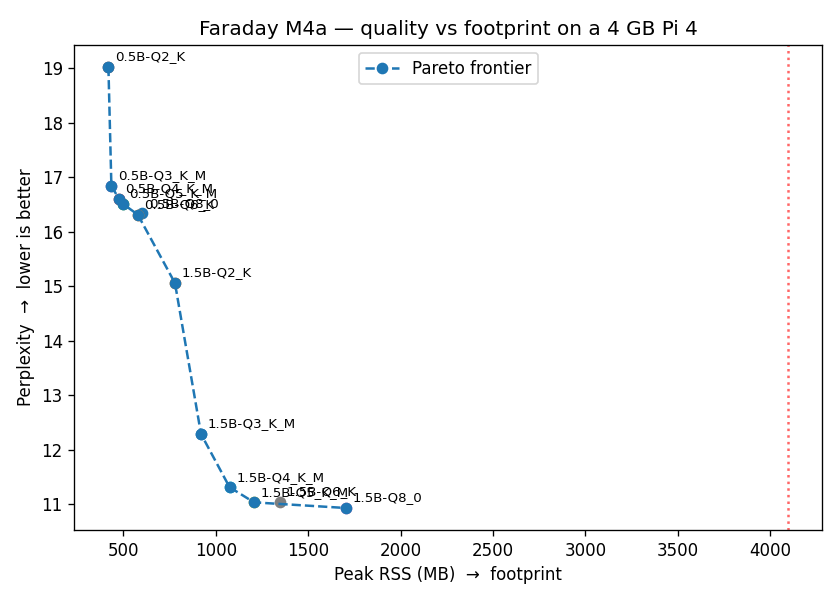
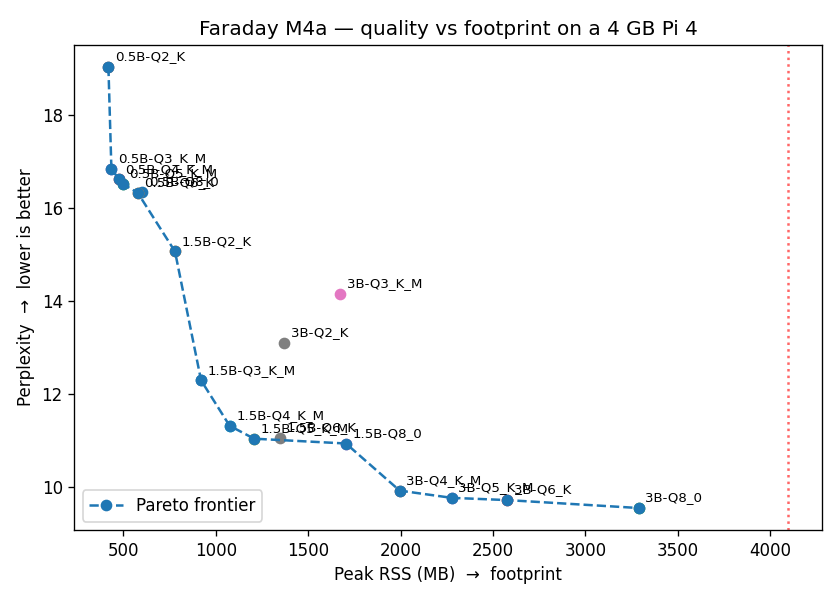
docs(m4a): final 18-cell clean-run results + findings — M4a complete
Clean re-run on the verified PSU (0x0 across ~15 h) replaces the throttled
core-run artifacts and completes the 3B rows. Findings rewritten as final:
knee = 1.5B Q4_K_M; decode bandwidth-bound at ~3.8 GB/s effective (measured
across all 18 cells); prefill kernel-bound (Q8_0/Q4_K_M fastest); 3B fits in
RAM but fails interactivity and is broken below Q4_K_M; core-run quality
reproduced exactly, speeds within ~2%. As-built + READMEs signed off.

diff --git a/results/sweep/findings.md b/results/sweep/findings.md
@@ -1,9 +1,9 @@
 # Faraday M4a — Quantization Sweep Findings
 
-**Status:** Core run complete — **12 cells (Qwen2.5 0.5B + 1.5B × 6 quants)**. The 3B
-row and clean speed numbers are deferred to a **re-run** (the run hit intermittent
-**under-voltage throttling** on a marginal PSU — see §5). **Quality and footprint are
-final** (power-immune); **speed is preliminary**.
+**Status:** ✅ **COMPLETE — all 18 cells** (Qwen2.5 {0.5B, 1.5B, 3B} × {Q8_0, Q6_K, Q5_K_M,
+Q4_K_M, Q3_K_M, Q2_K}), measured end-to-end on **clean power** (official 5.1 V/3 A PSU,
+`get_throttled=0x0` for the entire ~15 h run, 2026-06-10). Quality, footprint, **and speed**
+are all final. The earlier throttled 12-cell core run and its resolution: §5; run record: §6.
 
 **Deliverables:** [`frontier.png`](./frontier.png) · [`leaderboard.md`](./leaderboard.md) ·
 [`sweep.csv`](./sweep.csv) (raw rows).
@@ -12,106 +12,162 @@ final** (power-immune); **speed is preliminary**.
 
 ## 1. Headline & recommendation
 
-On a 4 GB Pi 4, the quality-vs-footprint frontier says: **run Qwen2.5-1.5B at Q4_K_M (or
-Q5_K_M).** It sits at the **knee** — perplexity ~11.3, peak RAM ~1.07 GB — capturing nearly
-all of the 1.5B model's quality at a comfortable footprint. Drop to 0.5B only if you need
-minimum RAM / maximum speed and can accept a large quality hit (~16 vs ~11 perplexity). The
-3B model fits but is impractically slow (§4).
+On a 4 GB Pi 4, the quality-vs-footprint frontier says: **run Qwen2.5-1.5B at Q4_K_M.**
+It sits at the **knee** — nearly all of the 1.5B model's quality at an interactive speed
+and a comfortable footprint. The full matrix adds a real option above it and a hard floor
+below it:
 
-**The frontier (perplexity vs peak RSS):** a textbook L-shape — a steep quality cliff across
-the 0.5B cluster, a big drop to the 1.5B cluster, then the curve flattens (extra RAM buys
-almost no quality past Q4/Q5 of 1.5B).
+| Pick | Cell | Perplexity | Peak RSS | Decode | When |
+|---|---|---|---|---|---|
+| **The knee (appliance default)** | **1.5B Q4_K_M** | 11.32 | 1.07 GB | 3.86 tok/s | Best quality-per-byte that is still interactive |
+| Quality ceiling | 3B Q4_K_M | 9.92 | 2.0 GB | 1.92 tok/s | Batch / non-interactive jobs where 2× the wait is fine |
+| Speed/RAM floor | 0.5B Q4_K_M | 16.61 | 475 MB | 9.47 tok/s | Latency demos; accept a large quality drop |
 
-## 2. Quality vs footprint (FINAL — unaffected by throttling)
+(1.5B **Q5_K_M** is the co-knee: 11.04 ppl at 1.21 GB — slightly better quality for −18%
+decode. Either is defensible; the product ships Q4_K_M.)
 
-**Size dominates quality.** Tripling parameters 0.5B → 1.5B drops perplexity from ~16–19 to
-~11 — a far bigger quality lever than any quant choice within a size.
+**The frontier (perplexity vs peak RSS)** is the textbook L-shape with a long upper arm:
+a steep cliff across the 0.5B cluster, the big drop to 1.5B, then a slow, expensive crawl
+toward 3B-Q8_0 (9.55 ppl at 3.3 GB — the model alone nearly fills the board). 14 of 18
+cells sit on the frontier; the four dominated cells are called out in §2.
 
-| | 0.5B perplexity | 1.5B perplexity |
-|---|---|---|
-| Q8_0 | 16.34 | 10.93 |
-| Q6_K | 16.32 | 11.05 |
-| Q5_K_M | 16.52 | 11.04 |
-| Q4_K_M | 16.61 | 11.32 |
-| Q3_K_M | 16.84 | 12.29 |
-| Q2_K | **19.03** | **15.06** |
+## 2. Quality vs footprint (FINAL)
 
-**The quant cliff is real, and bigger models tolerate compression better.** Quality drifts
-only gently from Q8 down to Q3, then falls off a cliff at **Q2_K**. For 0.5B the cliff is the
-single Q2 step (16.84 → 19.03). For 1.5B the gentle zone extends through Q4; Q3 starts to
-slip (12.29) and Q2 falls hard (15.06). More parameters = more redundancy to absorb the
-rounding noise.
+**Size dominates quality — with diminishing returns.** At Q4_K_M: 0.5B → 1.5B → 3B is
+16.61 → 11.32 → 9.92. The first 3× in parameters buys −5.3 perplexity; the next 2× buys
+only −1.4 (and costs half the decode speed, §3).
 
-**Two cells are dominated** (a strictly better option exists — smaller *and* lower
+| | 0.5B | 1.5B | 3B |
+|---|---|---|---|
+| Q8_0 | 16.34 | 10.93 | 9.55 |
+| Q6_K | 16.32 | 11.05 | 9.72 |
+| Q5_K_M | 16.52 | 11.04 | 9.77 |
+| Q4_K_M | 16.61 | 11.32 | 9.92 |
+| Q3_K_M | 16.84 | 12.29 | **14.15** |
+| Q2_K | **19.03** | **15.06** | **13.10** |
+
+**The low-bit cliff arrives *earlier* as the model grows** — the opposite of what the
+12-cell core run extrapolated ("bigger models tolerate compression better"). Relative
+degradation Q8_0 → Q3_K_M: 0.5B **+3.1%**, 1.5B **+12.4%**, 3B **+48.2%**. The 3B model is
+flatly broken below Q4_K_M: its Q3_K_M (14.15 ± 0.58) and Q2_K (13.10 ± 0.53) are *worse
+than 1.5B-Q4_K_M* while using more RAM. The Q3-worse-than-Q2 inversion is within ~2σ —
+read it as "Q3_K_M ≈ Q2_K, both off the cliff," not as a confident ordering. Whether the
+early cliff is intrinsic to the 3B weights or an artifact of these particular imatrix
+calibrations is unresolved; the leaderboard reports what was measured, not what was expected.
+
+**Four cells are dominated** (a strictly better cell exists — smaller *and* lower
 perplexity), so never run them:
-- **0.5B-Q8_0** (602 MB, 16.34) — beaten by **0.5B-Q6_K** (578 MB, 16.32). Q8's extra
-  precision bought *nothing* here.
+- **0.5B-Q8_0** (602 MB, 16.34) — beaten by **0.5B-Q6_K** (578 MB, 16.32).
 - **1.5B-Q6_K** (1348 MB, 11.05) — beaten by **1.5B-Q5_K_M** (1207 MB, 11.04).
+- **3B-Q3_K_M** (1671 MB, 14.15) and **3B-Q2_K** (1436 MB, 13.10) — both beaten by
+  **1.5B-Q3_K_M** (920 MB, 12.29). A broken big model loses to a healthy small one.
 
-**Footprint scales with quant**, all comfortably within 4 GB: 0.5B 419–602 MB, 1.5B
-779–1704 MB peak RSS.
+**Reproducibility:** the re-run reproduced all 12 core-run perplexities **exactly** (fixed
+GGUF + corpus + thread count → deterministic forward passes) and peak RSS within noise —
+empirical confirmation that quality/footprint were power-immune, as claimed when the core
+run was published. Footprint: peak RSS ≈ GGUF size + 100–160 MB (KV cache + compute
+buffers), so the model file size is an excellent RAM predictor.
 
-## 3. Speed (PRELIMINARY — see throttling caveat, §5)
+## 3. Speed (FINAL — clean power)
 
-**Decode is memory-bandwidth-bound, exactly as theory predicts.** Within a size, more
-compression → fewer bytes streamed per token → *faster* decode (0.5B: 7.24 → 10.61 tok/s as
-Q8 → Q2; 1.5B: 2.33 → 4.74). Across sizes, 1.5B (~3× the weights of 0.5B) decodes ~3× slower
-— the `decode ∝ 1/model_bytes` relationship, measured.
+**Decode is memory-bandwidth-bound, and now we've measured the constant.** Across **all 18
+cells**, `decode tok/s × model bytes` lands in a narrow band:
 
-**Harness cross-validation:** 1.5B-Q4_K_M measured **7.53 prefill / 3.84 decode** here vs the
-independent **M0 hand-measured baseline of 7.71 / 3.87** — agreement within ~2%, strong
-evidence both measurements are sound.
+- ≈ **3.8–3.9 GB/s** at Q8_0/Q6_K (simple dequant),
+- drifting down to ≈ **3.3 GB/s** at Q3/Q2 (super-block bit-unpacking starts to eat the
+  bandwidth win).
 
-⚠️ The prefill column is noisy (e.g. 1.5B Q8 7.67 > Q6 5.68) because of *intermittent* clock
-capping from under-voltage. Absolute speeds for 1.5B+ are **conservative**; relative trends
-hold. Clean numbers await the re-run.
+That band *is* the Pi 4's effective LPDDR4 read bandwidth, measured 18 independent ways.
+Consequences, verified: within a size, more compression → proportionally faster decode
+(0.5B: 7.25 → 10.66 tok/s from Q8 to Q2; 1.5B: 2.33 → 4.84; 3B: 1.15 → 2.60); across
+sizes at Q4_K_M, 2.48× the bytes → 2.45× slower (0.5B→1.5B) and 1.96× the bytes → 2.01×
+slower (1.5B→3B). To first order on this board: **`decode ≈ 3.8 GB/s ÷ model_bytes`** —
+you can now size any GGUF for the Pi 4 without running it.
 
-## 4. The 3B observation: a *speed* wall, not a memory wall (qualitative)
+| decode tok/s | 0.5B | 1.5B | 3B |
+|---|---|---|---|
+| Q8_0 | 7.25 | 2.33 | 1.15 |
+| Q6_K | 7.63 | 3.02 | 1.54 |
+| Q5_K_M | 9.05 | 3.15 | 1.72 |
+| Q4_K_M | 9.47 | 3.86 | 1.92 |
+| Q3_K_M | 10.47 | 4.06 | 2.13 |
+| Q2_K | 10.66 | 4.84 | 2.60 |
 
-We expected 3B to OOM against the 4 GB ceiling. It doesn't. Live diagnosis of `3B Q8_0`
-(**3.06 GB** GGUF) showed it **fits and runs**: the mmap'd weights sat in the page cache
-(`free`: used 409 MiB, buff/cache 3.4 GiB — the M0 mmap lesson live), swap untouched, all
-four cores compute-bound at full clock. The real limit is **speed**: a single perplexity
-pass on 3B runs ~1 h. So 3B is technically usable on a 4 GB Pi but **impractically slow** —
-the wall is throughput, not capacity. Full 3B characterization is deferred to the re-run.
+**Prefill is compute-bound and *kernel*-bound — it does not follow byte count.** In every
+size row, **Q8_0 and Q4_K_M are the two fastest prefill quants** (0.5B: 27.9/21.8 tok/s;
+1.5B: 7.65/7.52; 3B: 3.54/3.58) while Q5_K_M/Q6_K are the slowest (their bit-packed
+super-blocks cost the most ALU work to unpack). The core run showed the same pattern and
+we wrote it off as throttle noise; the clean run **reproduced it almost digit-for-digit**
+(1.5B Q8_0: 7.67→7.65; Q6_K: 5.68→5.69) — it's real. Lesson: quantization trades
+*decode* bandwidth against *prefill* dequant compute, and Q4_K_M's heavily-optimized NEON
+path is why it wins twice.
 
-## 5. Measurement-hygiene incident: under-voltage throttling
+**Cross-validation versus M0:** the harness's 1.5B-Q4_K_M row reads **7.52 prefill / 3.86
+decode** vs the hand-measured M0 baseline **7.71 / 3.87** — agreement within 2.5% / 0.3%,
+on independent tooling.
 
-Partway through the run the board began **under-volting under sustained load**:
-- `vcgencmd get_throttled` → `0x50000` (under-voltage **and** throttling *have occurred*).
-- `dmesg` logged real dips: `Undervoltage detected!` at 21:40, 21:57, 23:22 (each recovering
-  in seconds).
-- Temp was 55.5 °C — so this is **power, not heat**. The PSU sags below the ~4.63 V trip
-  point under load, the firmware caps the clock, then it recovers.
+**Postscript on the throttled core run:** its speed numbers turned out accurate to ≤~2%
+(the under-voltage dips lasted seconds and llama-bench's averaging absorbed them). Flagging
+them "preliminary" was still right — that accuracy was unknowable until measured on power
+that held `0x0`.
 
-**Impact:** speed columns for the heavier (1.5B+) cells are under-reported. **Perplexity and
-peak RSS are unaffected** (they don't depend on clock speed) — which is why the frontier and
-leaderboard are final.
+## 4. The 3B verdict: fits in RAM, fails at interactivity
 
-**Note:** a Pi 4 cannot report its actual 5 V input voltage in software (only the
-comparator flag + dmesg events); measuring the real voltage needs an inline USB-C power
-meter. Fix before the re-run: the **official 5.1 V/3 A PSU + a good short cable**.
+The core run's qualitative observation is now quantified:
 
-## 6. Re-run plan (for clean speed + the 3B row)
+- **It fits.** Every 3B quant ran to completion; peak RSS 1.44–3.29 GB, swap untouched.
+  The 4 GB ceiling never triggered — `status=oom` went unused across the whole matrix.
+- **It's slow in both phases.** Decode 1.15–2.60 tok/s; prefill 2.7–3.6 tok/s. At the only
+  healthy quant (Q4_K_M): **1.92 tok/s ≈ 86 words/min** — well below reading speed, and
+  RAG prompts (~1k tokens of context) make the prefill phase brutal too.
+- **Its low-bit escape hatch is broken** (§2): below Q4_K_M, 3B loses to 1.5B on *both*
+  axes. You cannot buy 3B's quality cheaply.
+- **RAM-wise it would coexist** with the appliance stack (≈2.4 GB total resident with
+  embed + app) — the deal-breaker is throughput, not capacity.
 
-After the PSU fix, start **fresh** (the resumable CSV would otherwise skip the contaminated
-rows):
-```bash
-ssh [email redacted]
-rm ~/faraday/results/sweep/sweep.csv; rm -f ~/faraday/results/sweep/raw/*
-cd ~/faraday && bash scripts/70_quant_sweep.sh   # full 18 cells, clean clock
-```
-Expect: identical quality/footprint, *higher* (un-throttled) speeds, and the six 3B rows
-completing the matrix (slowly — budget the full overnight + most of a day for the 3B
-perplexity passes).
+**Verdict:** 3B-Q4_K_M is real frontier (−1.4 ppl vs the knee) for **batch/offline** use;
+the interactive appliance stays on **1.5B Q4_K_M**. "Can a 4 GB Pi run a 3B model?" —
+yes; "should it serve one?" — no.
+
+## 5. Measurement-hygiene incident: under-voltage throttling (resolved)
+
+During the original core run the board **under-volted under sustained load**:
+`vcgencmd get_throttled` → `0x50000` (under-voltage *and* throttling have occurred),
+`dmesg` showed repeated `Undervoltage detected!` dips, each recovering in seconds, at
+55 °C — **power, not heat**. The marginal PSU sagged below the ~4.63 V trip point; the
+firmware capped the clock intermittently. Quality/footprint were unaffected (clock-
+independent); speed was flagged preliminary; the 3B rows were deferred.
+
+**Resolution:** official 5.1 V/3 A PSU, verified by a stress test before relaunch (held
+`0x0`, ±0.00 V variance), then the full 18-cell re-run held **`0x0` across ~15 h of
+sustained load**. The re-run reproduced quality exactly and core-run speeds within ~2%
+(§3 postscript) and added the six 3B cells. A Pi 4 can't report its input voltage in
+software — only the comparator flag — so the rule stands: **check `get_throttled` before
+trusting any benchmark, and re-measure on power you trust before calling numbers final.**
+
+## 6. Run record (the clean 18-cell run)
+
+- **2026-06-10**, fresh start (cleared `sweep.csv` + `raw/` so the resumable runner
+  wouldn't skip contaminated rows), via `scripts/70_quant_sweep.sh` detached over SSH.
+- First cell artifact 04:39, last 19:31 → **~15 h wall-clock**: 0.5B ≈ 1.4 h, 1.5B ≈ 4.3 h,
+  **3B ≈ 9.2 h (61% of the run** — each 3B perplexity pass alone is 55–69 min, matching
+  the "~1 h" estimate that justified deferring 3B from the throttled run).
+- ≈ **21.9 GB of GGUFs** downloaded to the scratch dir over the run, one model at a time,
+  each deleted after its cell (SD-card- and disk-friendly by design).
+- Throttle state `0x0` at launch, at every mid-run peek, and at completion.
 
 ## 7. Process notes (engineering candor)
 
-- **`pkill -f` self-match has a second form.** The bracket trick (`[f]oo`) stops the pattern
-  matching *itself*, but a **literal unbracketed copy of the pattern elsewhere in the same
-  command** (here, in a later `pgrep` verify clause) still matches and killed the SSH
-  session. Lesson: when killing by pattern over SSH, bracket *every* occurrence, or kill by
-  resolved PID (`kill $(pgrep -f '[f]oo')`).
+- **`pkill -f` self-match has a second form.** The bracket trick (`[f]oo`) stops the
+  pattern matching *itself*, but a **literal unbracketed copy of the pattern elsewhere in
+  the same command** (here, in a later `pgrep` verify clause) still matches — and killed
+  the SSH session. Lesson: bracket *every* occurrence, or kill by resolved PID
+  (`kill $(pgrep -f '[f]oo')`).
 - **Latent harness gap:** `run_cell` has no subprocess timeout. It didn't bite (3B fit and
   ran), but a model that genuinely thrashed instead of cleanly OOM-ing would hang the sweep
-  indefinitely. A per-cell timeout (→ `status=timeout`) is a worthwhile hardening item.
+  indefinitely. A per-cell timeout (→ `status=timeout`) remains a worthwhile hardening item.
+- **Re-measuring known cells is a free harness regression test.** Re-running the 12 core
+  cells cost ~6 of the 15 h but reproduced perplexity *exactly* and speed within ~2% — that
+  agreement is itself evidence the harness is sound, in the same spirit as the M0
+  cross-validation. It also promoted one "noise" artifact (Q8_0's prefill advantage, §3)
+  into a reproduced, real effect.

diff --git a/results/sweep/leaderboard.md b/results/sweep/leaderboard.md
@@ -4,15 +4,21 @@ Sorted by perplexity (lower = better). ★ = on the quality/footprint Pareto fro
 
 | Rank | Cell | Perplexity | Peak RSS (MB) | ★ |
 |---|---|---|---|---|
-| 1 | 1.5B-Q8_0 | 10.9337 | 1704 | ★ |
-| 2 | 1.5B-Q5_K_M | 11.0374 | 1207 | ★ |
-| 3 | 1.5B-Q6_K | 11.0523 | 1348 |  |
-| 4 | 1.5B-Q4_K_M | 11.3155 | 1074 | ★ |
-| 5 | 1.5B-Q3_K_M | 12.2908 | 920 | ★ |
-| 6 | 1.5B-Q2_K | 15.0613 | 779 | ★ |
-| 7 | 0.5B-Q6_K | 16.3176 | 578 | ★ |
-| 8 | 0.5B-Q8_0 | 16.3398 | 602 |  |
-| 9 | 0.5B-Q5_K_M | 16.5169 | 496 | ★ |
-| 10 | 0.5B-Q4_K_M | 16.6114 | 475 | ★ |
-| 11 | 0.5B-Q3_K_M | 16.8431 | 435 | ★ |
-| 12 | 0.5B-Q2_K | 19.0298 | 419 | ★ |
+| 1 | 3B-Q8_0 | 9.5473 | 3288 | ★ |
+| 2 | 3B-Q6_K | 9.7178 | 2575 | ★ |
+| 3 | 3B-Q5_K_M | 9.7658 | 2276 | ★ |
+| 4 | 3B-Q4_K_M | 9.9211 | 1995 | ★ |
+| 5 | 1.5B-Q8_0 | 10.9337 | 1704 | ★ |
+| 6 | 1.5B-Q5_K_M | 11.0374 | 1207 | ★ |
+| 7 | 1.5B-Q6_K | 11.0523 | 1348 |  |
+| 8 | 1.5B-Q4_K_M | 11.3155 | 1074 | ★ |
+| 9 | 1.5B-Q3_K_M | 12.2908 | 920 | ★ |
+| 10 | 3B-Q2_K | 13.1034 | 1370 |  |
+| 11 | 3B-Q3_K_M | 14.1451 | 1671 |  |
+| 12 | 1.5B-Q2_K | 15.0613 | 779 | ★ |
+| 13 | 0.5B-Q6_K | 16.3176 | 578 | ★ |
+| 14 | 0.5B-Q8_0 | 16.3398 | 602 |  |
+| 15 | 0.5B-Q5_K_M | 16.5169 | 496 | ★ |
+| 16 | 0.5B-Q4_K_M | 16.6114 | 475 | ★ |
+| 17 | 0.5B-Q3_K_M | 16.8431 | 435 | ★ |
+| 18 | 0.5B-Q2_K | 19.0298 | 418 | ★ |

diff --git a/docs/superpowers/plans/2026-06-09-faraday-m4a-as-built.md b/docs/superpowers/plans/2026-06-09-faraday-m4a-as-built.md
@@ -1,8 +1,9 @@
 # Faraday — M4a As-Built & Findings (harness)
 
-**Status:** ✅ Harness complete — merged to `main` (`51a1a67`) and on GitHub. ⏳ The 18-cell
-sweep is **unrun**; `results/sweep/{sweep.csv,frontier.png,leaderboard.md,findings.md}` and
-the "M4a complete" sign-off follow the overnight run.
+**Status:** ✅ **M4a complete & signed off (2026-06-10).** Harness merged to `main`
+(`51a1a67`); the sweep ran twice — a 12-cell core run on a marginal PSU (`653eff6`) and,
+after the PSU fix, the final clean **18-cell** run — final artifacts + findings in
+[`results/sweep/`](../../../results/sweep/findings.md).
 **Plan:** [2026-06-09-faraday-m4a-quant-sweep.md](./2026-06-09-faraday-m4a-quant-sweep.md)
 **Spec:** [2026-06-09-faraday-m4a-quant-sweep-design.md](../specs/2026-06-09-faraday-m4a-quant-sweep-design.md)
 
@@ -72,7 +73,16 @@ The plan was authored fully off-Pi; only the smoke + (pending) sweep need hardwa
 plan-vs-reality gap (finding #1) was assumed-present-but-absent — caught at the prereq
 gate, the cheapest possible place.
 
-**Next:** run `scripts/70_quant_sweep.sh` (overnight, resumable) → commit the frontier +
-`findings.md` (the knee, quant cliffs, the 4 GB wall, what to actually run on a 4 GB Pi) →
-sign off M4a. Then M4c (optimization waterfall: governor/overclock/KV-cache/flash-attn/
-speculative; the TTFT-vs-context + prefill-rate leads) and M4b (RAG evals).
+## Sweep run record (added at sign-off, 2026-06-10)
+
+Two runs. The **core run** (12 cells, 0.5B+1.5B) hit intermittent under-voltage throttling
+on a marginal PSU — quality/footprint published as final (clock-independent), speed flagged
+preliminary, 3B deferred. After a verified PSU swap, the **clean 18-cell run** held
+`get_throttled=0x0` across ~15 h (3B = 61% of wall-clock), **reproduced all 12 core
+perplexities exactly and core speeds within ~2%**, and completed the 3B rows. Headlines:
+knee = **1.5B Q4_K_M**; decode bandwidth-bound at ≈3.8 GB/s effective (measured 18 ways);
+prefill kernel-bound (Q8_0/Q4_K_M fastest); 3B fits in RAM but fails interactivity, and is
+broken below Q4_K_M. Full story: [`results/sweep/findings.md`](../../../results/sweep/findings.md).
+
+**Next:** M4b batch-verify + data run (`m4b-eval-data-run` branch), then M4c (the
+optimization waterfall — where the TTFT-vs-context + prefill-rate leads now live), then M5.

diff --git a/results/sweep/README.md b/results/sweep/README.md
@@ -23,5 +23,6 @@ bash scripts/70_quant_sweep.sh
 # Then commit the curated outputs from the dev box.
 ```
 
-`status` ∈ {`ok`, `oom`, `download_failed`, `error`}. A non-fitting 3B cell is
-`oom` — that's a charted result (the 4 GB ceiling), not a bug.
+`status` ∈ {`ok`, `oom`, `download_failed`, `error`}. A non-fitting cell would be
+`oom` — a charted result (the 4 GB ceiling), not a bug. In the final 2026-06-10 run it
+went unused: **18/18 `ok`** — every cell fits; the 3B wall is speed, not memory.

diff --git a/README.md b/README.md
@@ -4,7 +4,7 @@
 
 Faraday runs a small LLM and a vector-search engine *entirely* on a 4 GB Raspberry Pi 4. Point it at your PDFs/notes and it answers questions about them with source citations — and nothing ever leaves the device. It's both a working privacy-first appliance and an inference-engineering study of how much GenAI capability fits on ~$60 of constrained edge hardware.
 
-> **Status:** 🟢 **M0–M3 complete** — a local RAG appliance answering cited questions fully offline (CLI + token-streaming web chat), with a live Prometheus/Grafana dashboard (69 tests green, proven on hardware).  🚧 **M4 in progress** — the inference lab: the [quant-sweep frontier](results/sweep/findings.md) is measured (verdict: run **1.5B Q4_K_M** on a 4 GB Pi), the RAG-eval engine is merged, and the optimization study is designed.
+> **Status:** 🟢 **M0–M3 complete** — a local RAG appliance answering cited questions fully offline (CLI + token-streaming web chat), with a live Prometheus/Grafana dashboard (69 tests green, proven on hardware).  🚧 **M4 in progress** — the inference lab: **M4a ✅** the [18-cell quant-sweep frontier](results/sweep/findings.md) is final (verdict: run **1.5B Q4_K_M**; decode is bandwidth-bound at ≈3.8 GB/s; 3B fits but fails interactivity), the RAG-eval engine is merged, and the optimization study is designed.
 
 ## Why it's interesting
 
@@ -102,5 +102,5 @@ Code is authored on a Windows dev machine and deployed to the Pi with `git push 
 - [Design spec](docs/superpowers/specs/2026-06-08-faraday-edge-rag-appliance-design.md) — full architecture & methodology
 - Milestone specs: [M2 serving](docs/superpowers/specs/2026-06-09-faraday-m2-serving-design.md) · [M3 observability](docs/superpowers/specs/2026-06-09-faraday-m3-observability-design.md) · [M4a quant sweep](docs/superpowers/specs/2026-06-09-faraday-m4a-quant-sweep-design.md) · [M4b RAG evals](docs/superpowers/specs/2026-06-10-faraday-m4b-rag-evals-design.md) · [M4c optimization](docs/superpowers/specs/2026-06-10-faraday-m4c-optimization-design.md)
 - Implementation plans: [M0–M1](docs/superpowers/plans/2026-06-08-faraday-m0-m1-rag-core.md) · [M2](docs/superpowers/plans/2026-06-09-faraday-m2-serving.md) · [M3](docs/superpowers/plans/2026-06-09-faraday-m3-observability.md) · [M4a](docs/superpowers/plans/2026-06-09-faraday-m4a-quant-sweep.md) · [M4b engine](docs/superpowers/plans/2026-06-10-faraday-m4b-rag-eval-engine.md) · [M4b data+run](docs/superpowers/plans/2026-06-10-faraday-m4b-rag-eval-data-and-run.md) · [M4c](docs/superpowers/plans/2026-06-10-faraday-m4c-optimization.md)
-- First results: [M4a sweep findings](results/sweep/findings.md) — the quality-vs-footprint frontier + Pi-4 leaderboard
+- First results: [M4a sweep findings](results/sweep/findings.md) — the quality-vs-footprint frontier + [Pi-4 leaderboard](results/sweep/leaderboard.md) (18 cells, final)
 - As-built & findings: [M0](docs/superpowers/plans/2026-06-08-faraday-m0-as-built.md) · [M1](docs/superpowers/plans/2026-06-08-faraday-m1-as-built.md) · [M2](docs/superpowers/plans/2026-06-09-faraday-m2-as-built.md) · [M3](docs/superpowers/plans/2026-06-09-faraday-m3-as-built.md)